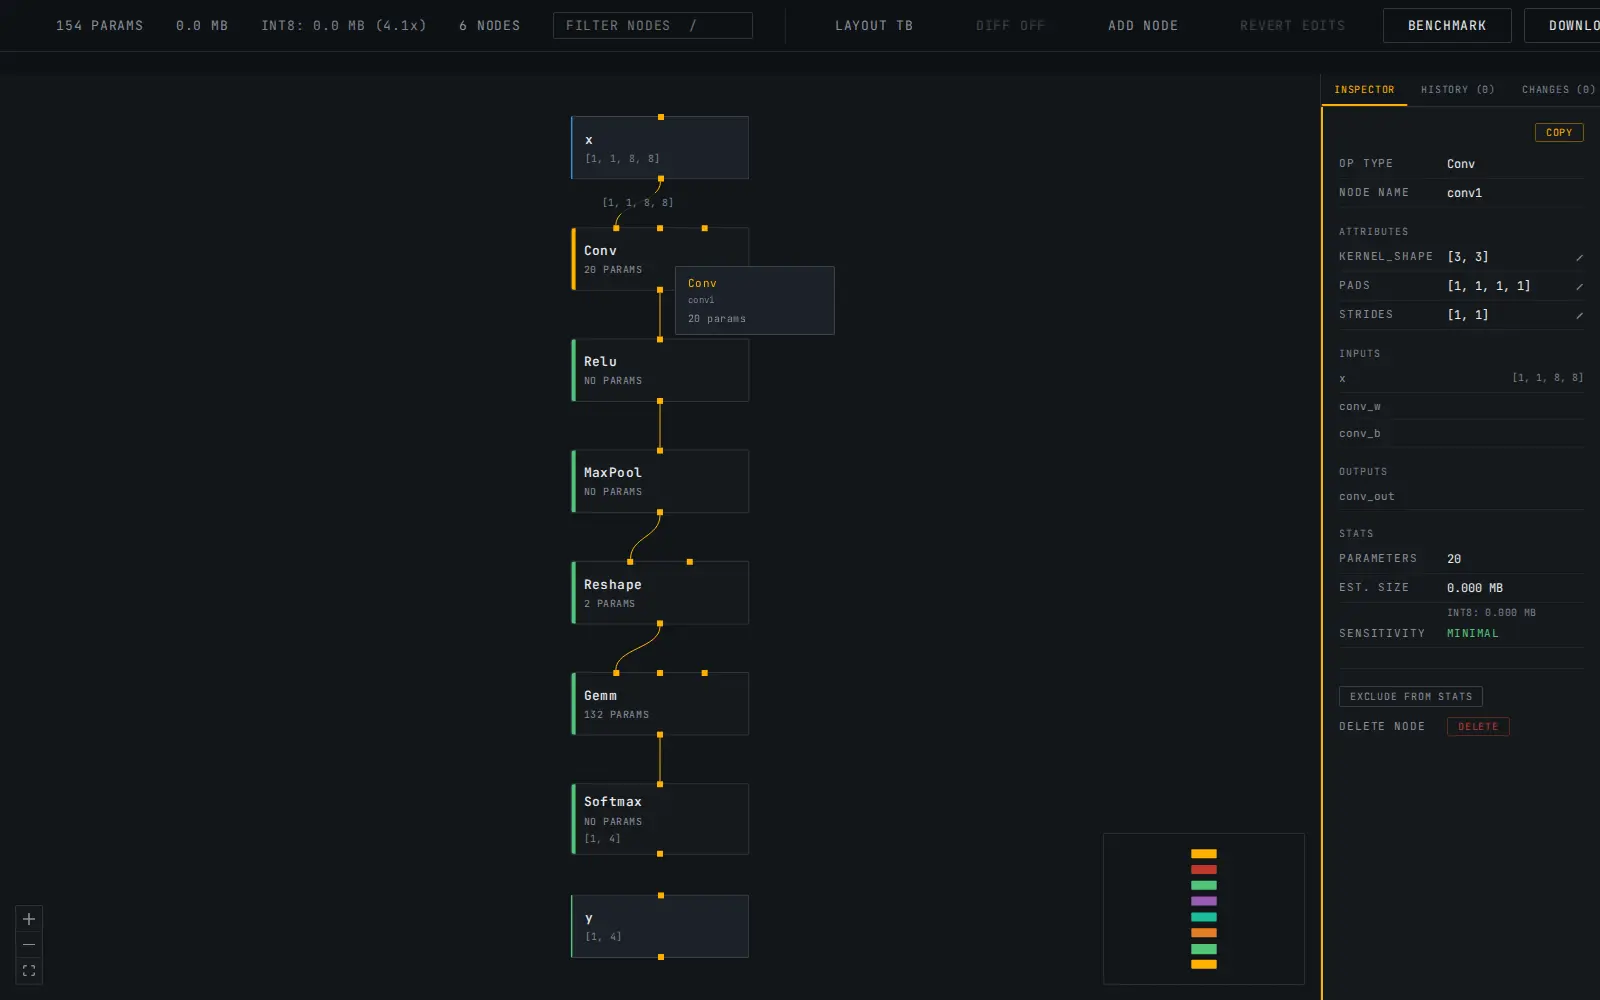
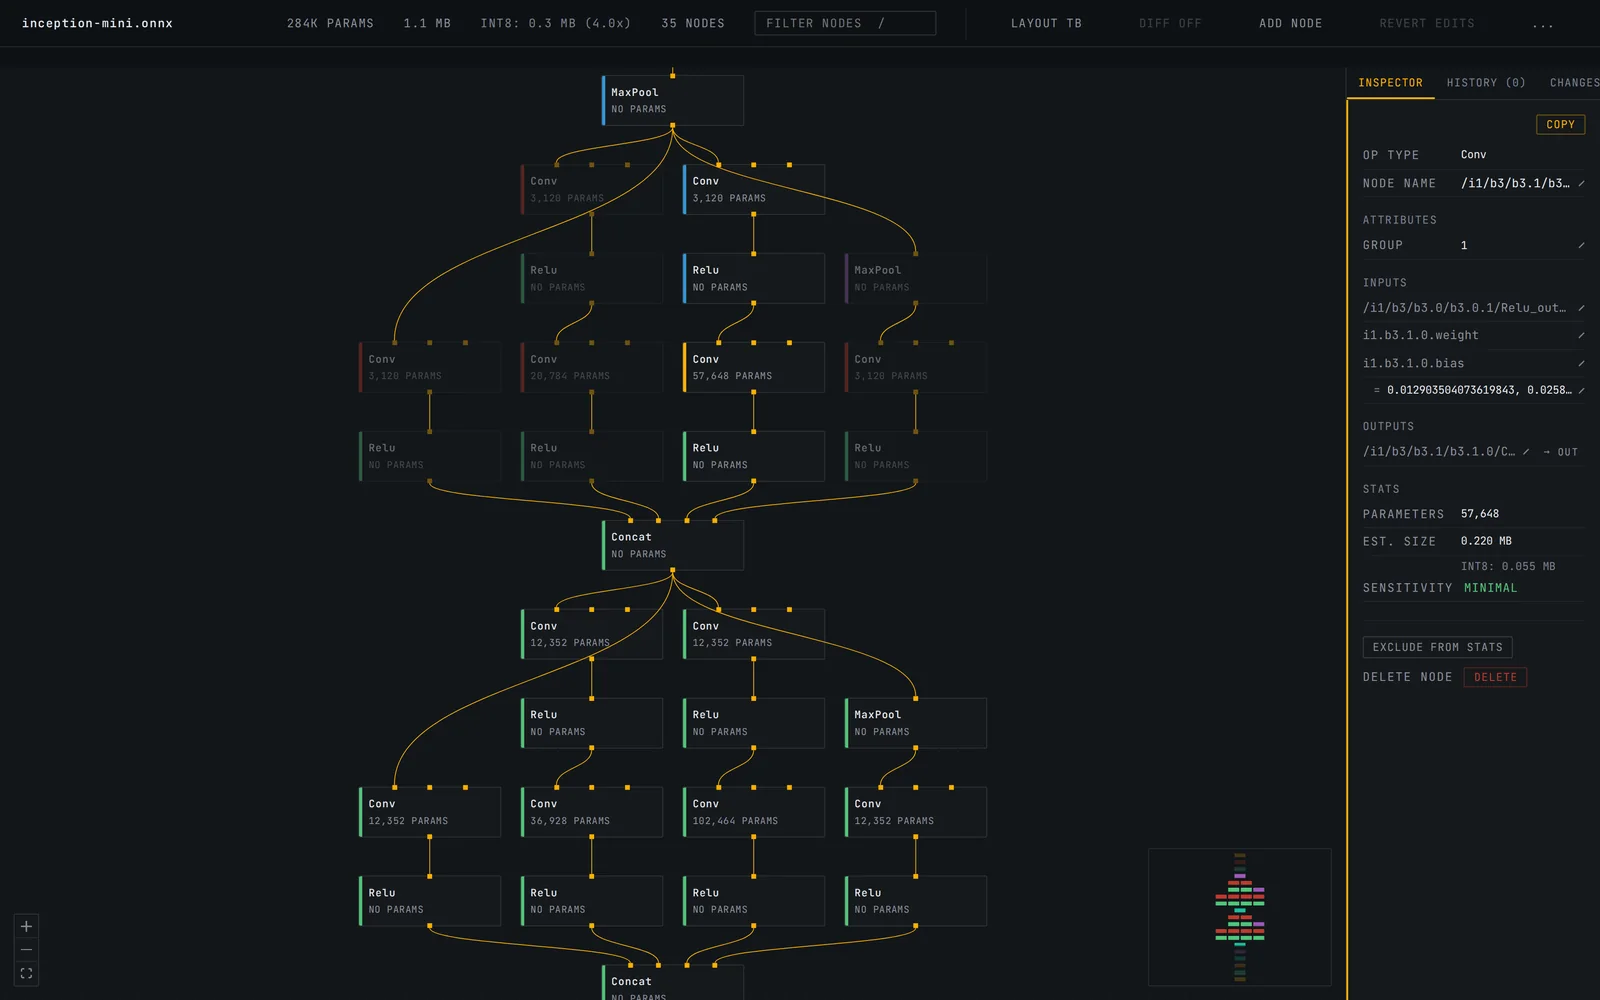
Use sharper Forma and SAMOSA screenshots
Forma now shows an Inception-style graph with one Conv selected, and SAMOSA shows a wrong row with its counterexample. The SAMOSA window swaps a 500 KB animated capture for a static NumPy snippet view, and the captions match.

diff --git a/index.html b/index.html
@@ -557,7 +557,7 @@
       </button>
 
       <button class="card reveal" data-delay="1" type="button" data-open="w-forma">
-        <span class="card-media"><img src="/projects/forma-editor.webp" alt="Forma showing a small ONNX graph with the Conv node selected" loading="lazy" width="800" height="500" /></span>
+        <span class="card-media"><img src="/projects/forma-editor.webp" alt="Forma showing an Inception-style ONNX graph with one Conv node selected" loading="lazy" width="800" height="500" /></span>
         <span class="card-body">
           <span class="card-kicker">React, onnxruntime-web</span>
           <span class="card-title">Forma</span>
@@ -909,8 +909,8 @@
 
     <div class="win-grid">
       <div class="win-demo">
-        <img class="win-shot" src="/projects/samosa-kalman.webp" alt="Screen recording of SAMOSA checking the Kalman measurement update and flagging the row with a missing noise term" width="1200" height="750" loading="lazy" />
-        <p class="fig-cap"><b>Recording.</b> The Kalman measurement update as it is usually written. SAMOSA flags the row where the noise term is missing.</p>
+        <img class="win-shot" src="/projects/samosa-code.webp" alt="SAMOSA with the last row of a covariance update marked wrong, and the failing values offered as a NumPy snippet" width="1600" height="1000" loading="lazy" />
+        <p class="fig-cap"><b>Screenshot.</b> A covariance update with the noise term dropped. SAMOSA marks the wrong row and offers the failing values as a NumPy snippet.</p>
       </div>
 
       <div class="win-text">
@@ -939,8 +939,8 @@
 
     <div class="win-grid">
       <div class="win-demo">
-        <img class="win-shot" src="/projects/forma-editor.webp" alt="Forma with a small ONNX graph, the Conv node selected, and its attributes open in the inspector" width="1600" height="1000" loading="lazy" />
-        <p class="fig-cap"><b>Screenshot.</b> A sample model with the Conv node selected and its attributes editable in the inspector.</p>
+        <img class="win-shot" src="/projects/forma-editor.webp" alt="Forma with an Inception-style ONNX graph, one Conv node selected, and its parameters and size shown in the inspector" width="1600" height="1000" loading="lazy" />
+        <p class="fig-cap"><b>Screenshot.</b> A small Inception-style test network with one Conv node selected. The inspector shows its parameter count, size, and INT8 estimate.</p>
       </div>
 
       <div class="win-text">
